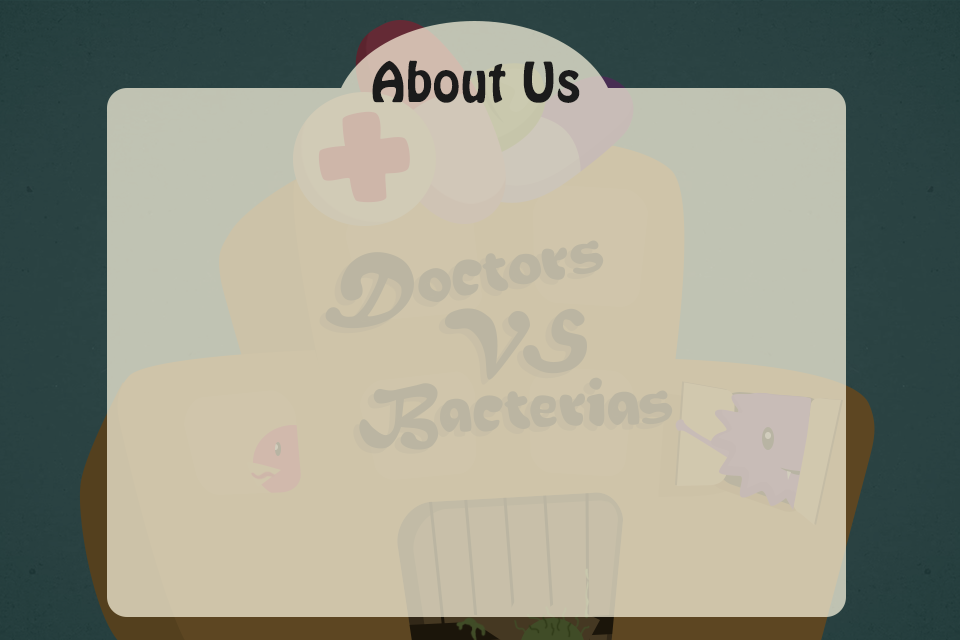
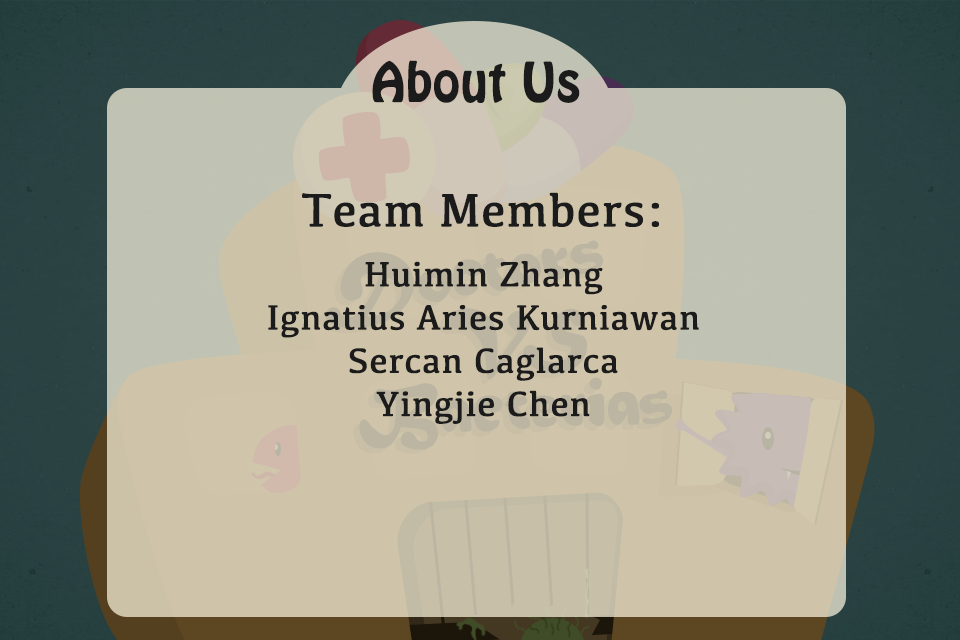
Add About Us page.

Changed region(s): [[0.2812, 0.4062, 0.7188, 0.6562], [0.3125, 0.2812, 0.6875, 0.375]]

diff --git a/src/Option/LayerOptionBg.js b/src/Option/LayerOptionBg.js
@@ -15,9 +15,5 @@ var LayerOptionBg = cc.Layer.extend({
         backgroundSprite.setPosition(winSize.width / 2, winSize.height / 2);
         backgroundSprite.setScale(winSize.height/backgroundSprite.getContentSize().height);
         this.addChild(backgroundSprite, 0);
-
-        //var titleLabel = cc.LabelTTF.create("Game Options", "Impact", 38);
-        //titleLabel.setPosition(winSize.width / 2, winSize.height - 40);
-        //this.addChild(titleLabel, 1);
     }
 })

diff --git a/PvZ-Html5.js b/PvZ-Html5.js
@@ -63,7 +63,9 @@ var PvZ = PvZ || {};
             'src/Main/SceneGameOver.js',
             'src/Option/LayerOptionBg.js',
             'src/Option/LayerOptionMenu.js',
-            'src/Option/SceneOption.js'
+            'src/Option/SceneOption.js',
+            'src/About/LayerAboutBg.js',
+            'src/About/SceneAbout.js'
         ]
     };
 

diff --git a/cocos2d.js b/cocos2d.js
@@ -58,7 +58,9 @@
             'src/Main/SceneGameOver.js',
             'src/Option/LayerOptionBg.js',
             'src/Option/LayerOptionMenu.js',
-            'src/Option/SceneOption.js'
+            'src/Option/SceneOption.js',
+            'src/About/LayerAboutBg.js',
+            'src/About/SceneAbout.js'
         ]
     };
 

diff --git a/src/Main/LayerMainMenu.js b/src/Main/LayerMainMenu.js
@@ -59,7 +59,8 @@ var LayerMainMenu = cc.Layer.extend({
     onAbout:function (pSender) {
         cc.log("About");
         this.onButtonEffect();
-        // TODO: Go to about scene
+        var aboutScene = new SceneAbout();
+        cc.Director.getInstance().replaceScene(cc.TransitionSlideInT.create(0.4, aboutScene));
     }
 
 
